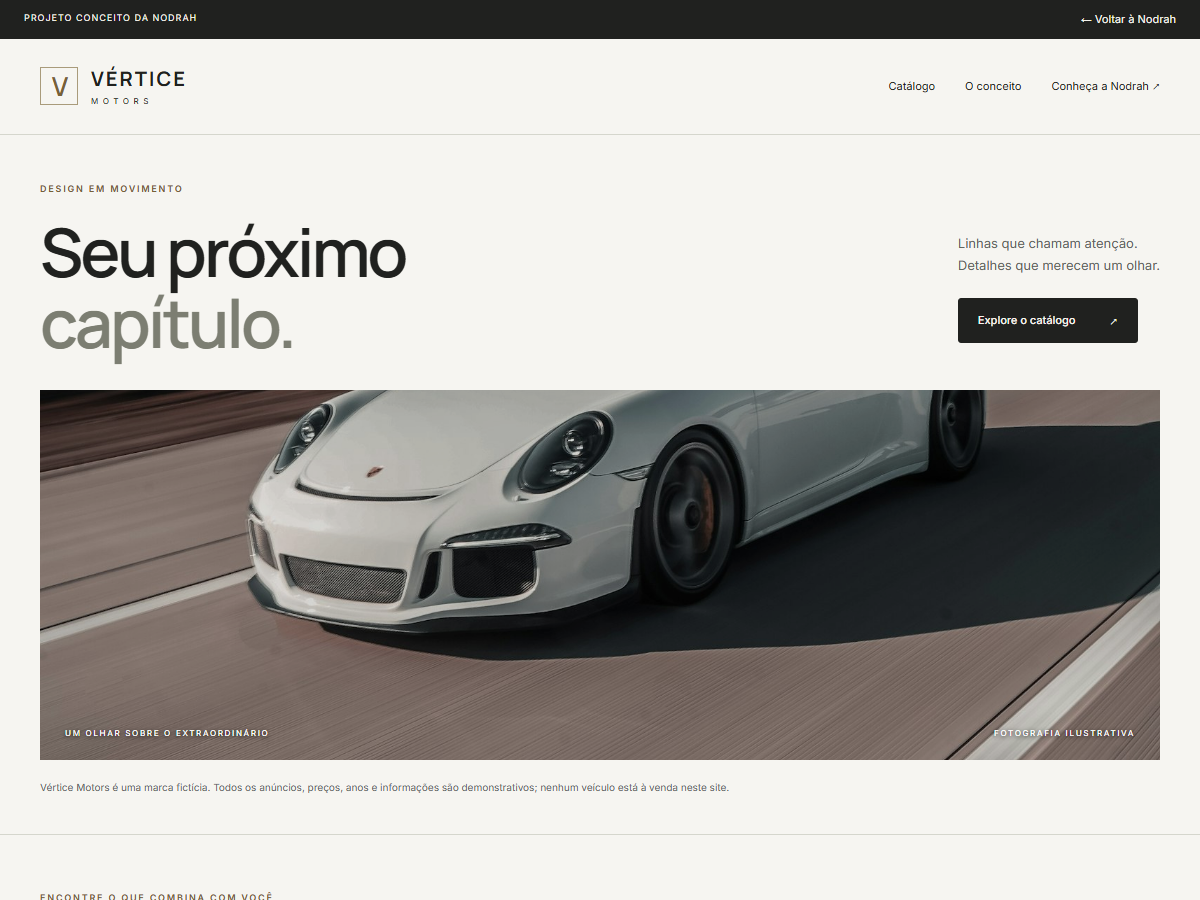
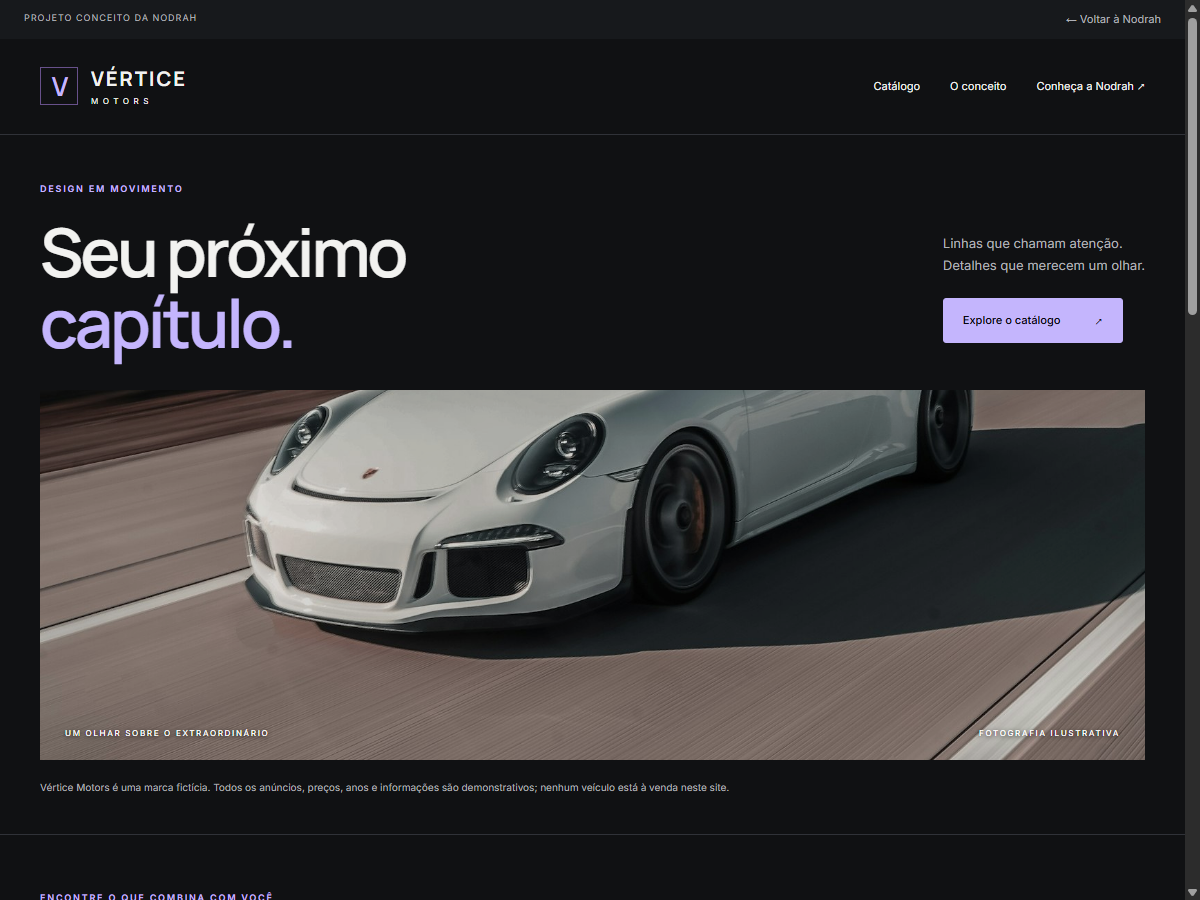
Atualiza paleta de veículos e espaçamento da apresentação

diff --git a/projetos/veiculos/style.css b/projetos/veiculos/style.css
@@ -1,14 +1,19 @@
 /* Ordem no HTML: Variáveis e configurações gerais → compartilhados → cabeçalho → apresentação → catálogo → conceito → rodapé → diálogo. */
 /* Regras repetidas, @media e complementos permanecem na ordem original para preservar a cascata. */
 
-/* Variáveis e configurações gerais. */
+/* Paleta do site principal da Nodrah; dimensões e comportamento preservados. */
 :root {
-    color-scheme: light;
-    --bg: #f6f5f1;
-    --ink: #20211f;
-    --muted: #63655e;
-    --line: #d5d6cd;
-    --accent: #887040
+    color-scheme: dark;
+    --bg: #101113;
+    --ink: #f2f2f0;
+    --muted: #b0b1b7;
+    --line: #303238;
+    --surface: #17191c;
+    --accent: #C4B5FD;
+    --accent-ink: #09070F;
+    --accent-hover: #A78BFA;
+    --accent-surface: #282039;
+    --accent-border: #68518B
 }
 
 * {
@@ -55,7 +60,7 @@ button {
 }
 
 :focus-visible {
-    outline: 3px solid #887040;
+    outline: 3px solid var(--accent);
     outline-offset: 5px
 }
 
@@ -80,8 +85,8 @@ button {
     padding: 10px max(24px,calc((100vw - 1200px)/2));
     font-size: 9px;
     letter-spacing: 1px;
-    background: var(--ink);
-    color: #f4f2eb
+    background: var(--surface);
+    color: var(--muted)
 }
 
 .concept-bar a {
@@ -118,14 +123,14 @@ header {
 }
 
 .brand-mark {
-    border: 1px solid #a99b7b;
+    border: 1px solid var(--accent-border);
     width: 38px;
     height: 38px;
     display: grid;
     place-items: center;
     font-size: 26px;
     font-weight: 600;
-    color: #776139;
+    color: var(--accent);
     letter-spacing: -2px
 }
 
@@ -148,7 +153,7 @@ nav a {
 .eyebrow {
     font-size: 9px;
     letter-spacing: 1.8px;
-    color: #756038;
+    color: var(--accent);
     font-weight: 600;
     display: block
 }
@@ -172,7 +177,7 @@ h1 {
 }
 
 h1 span {
-    color: #7c7e72
+    color: var(--accent)
 }
 
 /* Apresentação inicial. */
@@ -194,23 +199,23 @@ h1 span {
     gap: 34px;
     padding: 14px 19px;
     font: 500 11px Inter,sans-serif;
-    background: #20211f;
-    color: #f7f5ee;
-    border: 1px solid #20211f;
+    background: var(--accent);
+    color: var(--accent-ink);
+    border: 1px solid var(--accent);
     text-decoration: none;
     border-radius: 3px;
     transition: background .2s
 }
 
 .button:hover {
-    background: #4c493e
+    background: var(--accent-hover)
 }
 
 /* Apresentação inicial. */
 .hero-photo {
     position: relative;
     margin: 0;
-    background: #d8dad5
+    background: var(--surface)
 }
 
 .hero-photo img {
@@ -280,8 +285,8 @@ h2 {
     grid-template-columns: 1.5fr repeat(4,minmax(0,1fr));
     gap: 15px;
     padding: 22px;
-    background: #ecece5;
-    border: 1px solid #d2d3c8;
+    background: var(--surface);
+    border: 1px solid var(--line);
     border-radius: 5px
 }
 
@@ -306,10 +311,10 @@ input,select {
     padding: 12px 10px;
     font-size: 11px;
     line-height: 1.4;
-    border: 1px solid #aeb0a3;
+    border: 1px solid var(--accent-border);
     border-radius: 2px;
     color: var(--ink);
-    background: #fff
+    background: var(--bg)
 }
 
 input[type=search] {
@@ -321,7 +326,7 @@ input[type=search] {
     justify-self: end;
     border: 0;
     background: transparent;
-    color: #575346;
+    color: var(--accent);
     font-size: 10px;
     text-decoration: underline;
     padding: 3px 0
@@ -363,7 +368,7 @@ input[type=search] {
 .vehicle-photo {
     display: block;
     position: relative;
-    background: #d8dad5;
+    background: var(--surface);
     aspect-ratio: 1.5;
     overflow: hidden
 }
@@ -384,7 +389,7 @@ input[type=search] {
     position: absolute;
     left: 13px;
     top: 13px;
-    background: #f6f5f1ed;
+    background: rgb(16 17 19 / 93%);
     padding: 4px 7px;
     font-size: 7px;
     letter-spacing: .8px
@@ -397,7 +402,7 @@ input[type=search] {
 .vehicle-brand {
     font-size: 8px;
     letter-spacing: 1.8px;
-    color: #756038
+    color: var(--accent)
 }
 
 .vehicle-card h3 {
@@ -438,14 +443,14 @@ input[type=search] {
 .detail-link {
     font-size: 10px;
     text-decoration: none;
-    border-bottom: 1px solid #999685;
+    border-bottom: 1px solid var(--accent-border);
     padding-bottom: 5px;
     display: inline-flex;
     gap: 24px
 }
 
 .detail-link:hover {
-    color: #766037
+    color: var(--accent-hover)
 }
 
 /* Catálogo, filtros e veículos. */
@@ -457,13 +462,13 @@ input[type=search] {
 .empty-state {
     padding: 45px 25px;
     text-align: center;
-    border: 1px dashed #b7b8ac;
-    background: #eeeee7
+    border: 1px dashed var(--line);
+    background: var(--surface)
 }
 
 .empty-state>span {
     font-size: 40px;
-    color: #887040
+    color: var(--accent)
 }
 
 .empty-state h3 {
@@ -578,7 +583,7 @@ dialog::backdrop {
 .gallery-photo {
     aspect-ratio: 1.35;
     overflow: hidden;
-    background: #d4d6d0
+    background: var(--surface)
 }
 
 .gallery-photo img {
@@ -597,18 +602,18 @@ dialog::backdrop {
 }
 
 .gallery-controls button {
-    background: #e9e9e1;
+    background: var(--surface);
     color: var(--ink);
-    border: 1px solid #b8b9ac;
+    border: 1px solid var(--accent-border);
     padding: 9px 10px;
     font-size: 9px;
     border-radius: 2px
 }
 
 .gallery-controls [aria-pressed=true] {
-    background: #34362f;
-    border-color: #34362f;
-    color: white
+    background: var(--accent);
+    border-color: var(--accent);
+    color: var(--accent-ink)
 }
 
 .gallery-note,.interest-note {
@@ -665,8 +670,8 @@ dialog::backdrop {
 }
 
 .interest-summary {
-    background: #e9ecdf;
-    border: 1px solid #b4bd9f;
+    background: var(--accent-surface);
+    border: 1px solid var(--accent-border);
     padding: 17px;
     margin-top: 18px;
     font-size: 11px;

diff --git a/index.html b/index.html
@@ -779,7 +779,7 @@
                     </article>
                     <article class="projeto">
                         <a class="project-preview" href="projetos/veiculos/index.html" aria-label="Explorar demonstração de catálogo de veículos">
-                        <img src="projetos/veiculos/previa.png" width="1200" height="900" loading="lazy" decoding="async" alt="Captura da Vértice Motors: catálogo conceito com tipografia forte, fundo claro e fotografia ampla de um veículo.">
+                        <img src="projetos/veiculos/previa.png" width="1200" height="900" loading="lazy" decoding="async" alt="Captura da Vértice Motors: catálogo conceito com tipografia forte, fundo grafite, destaques violetas e fotografia ampla de um veículo.">
                         <span class="preview-arrow" aria-hidden="true">↗</span>
                     </a>
                         <div class="projeto-info">

diff --git a/style.css b/style.css
@@ -617,7 +617,8 @@ nav .nav-contact {
 }
 
 .coordinate-bottom {
-    bottom: 26px;
+    /* Respiro abaixo da placa, inclusive durante o giro do símbolo. */
+    bottom: -6px;
     left: 30px;
 }
 
@@ -1304,7 +1305,7 @@ footer {
     }
 
     .coordinate-bottom {
-        bottom: 8px;
+        bottom: -24px;
     }
 
     .art-floor {
